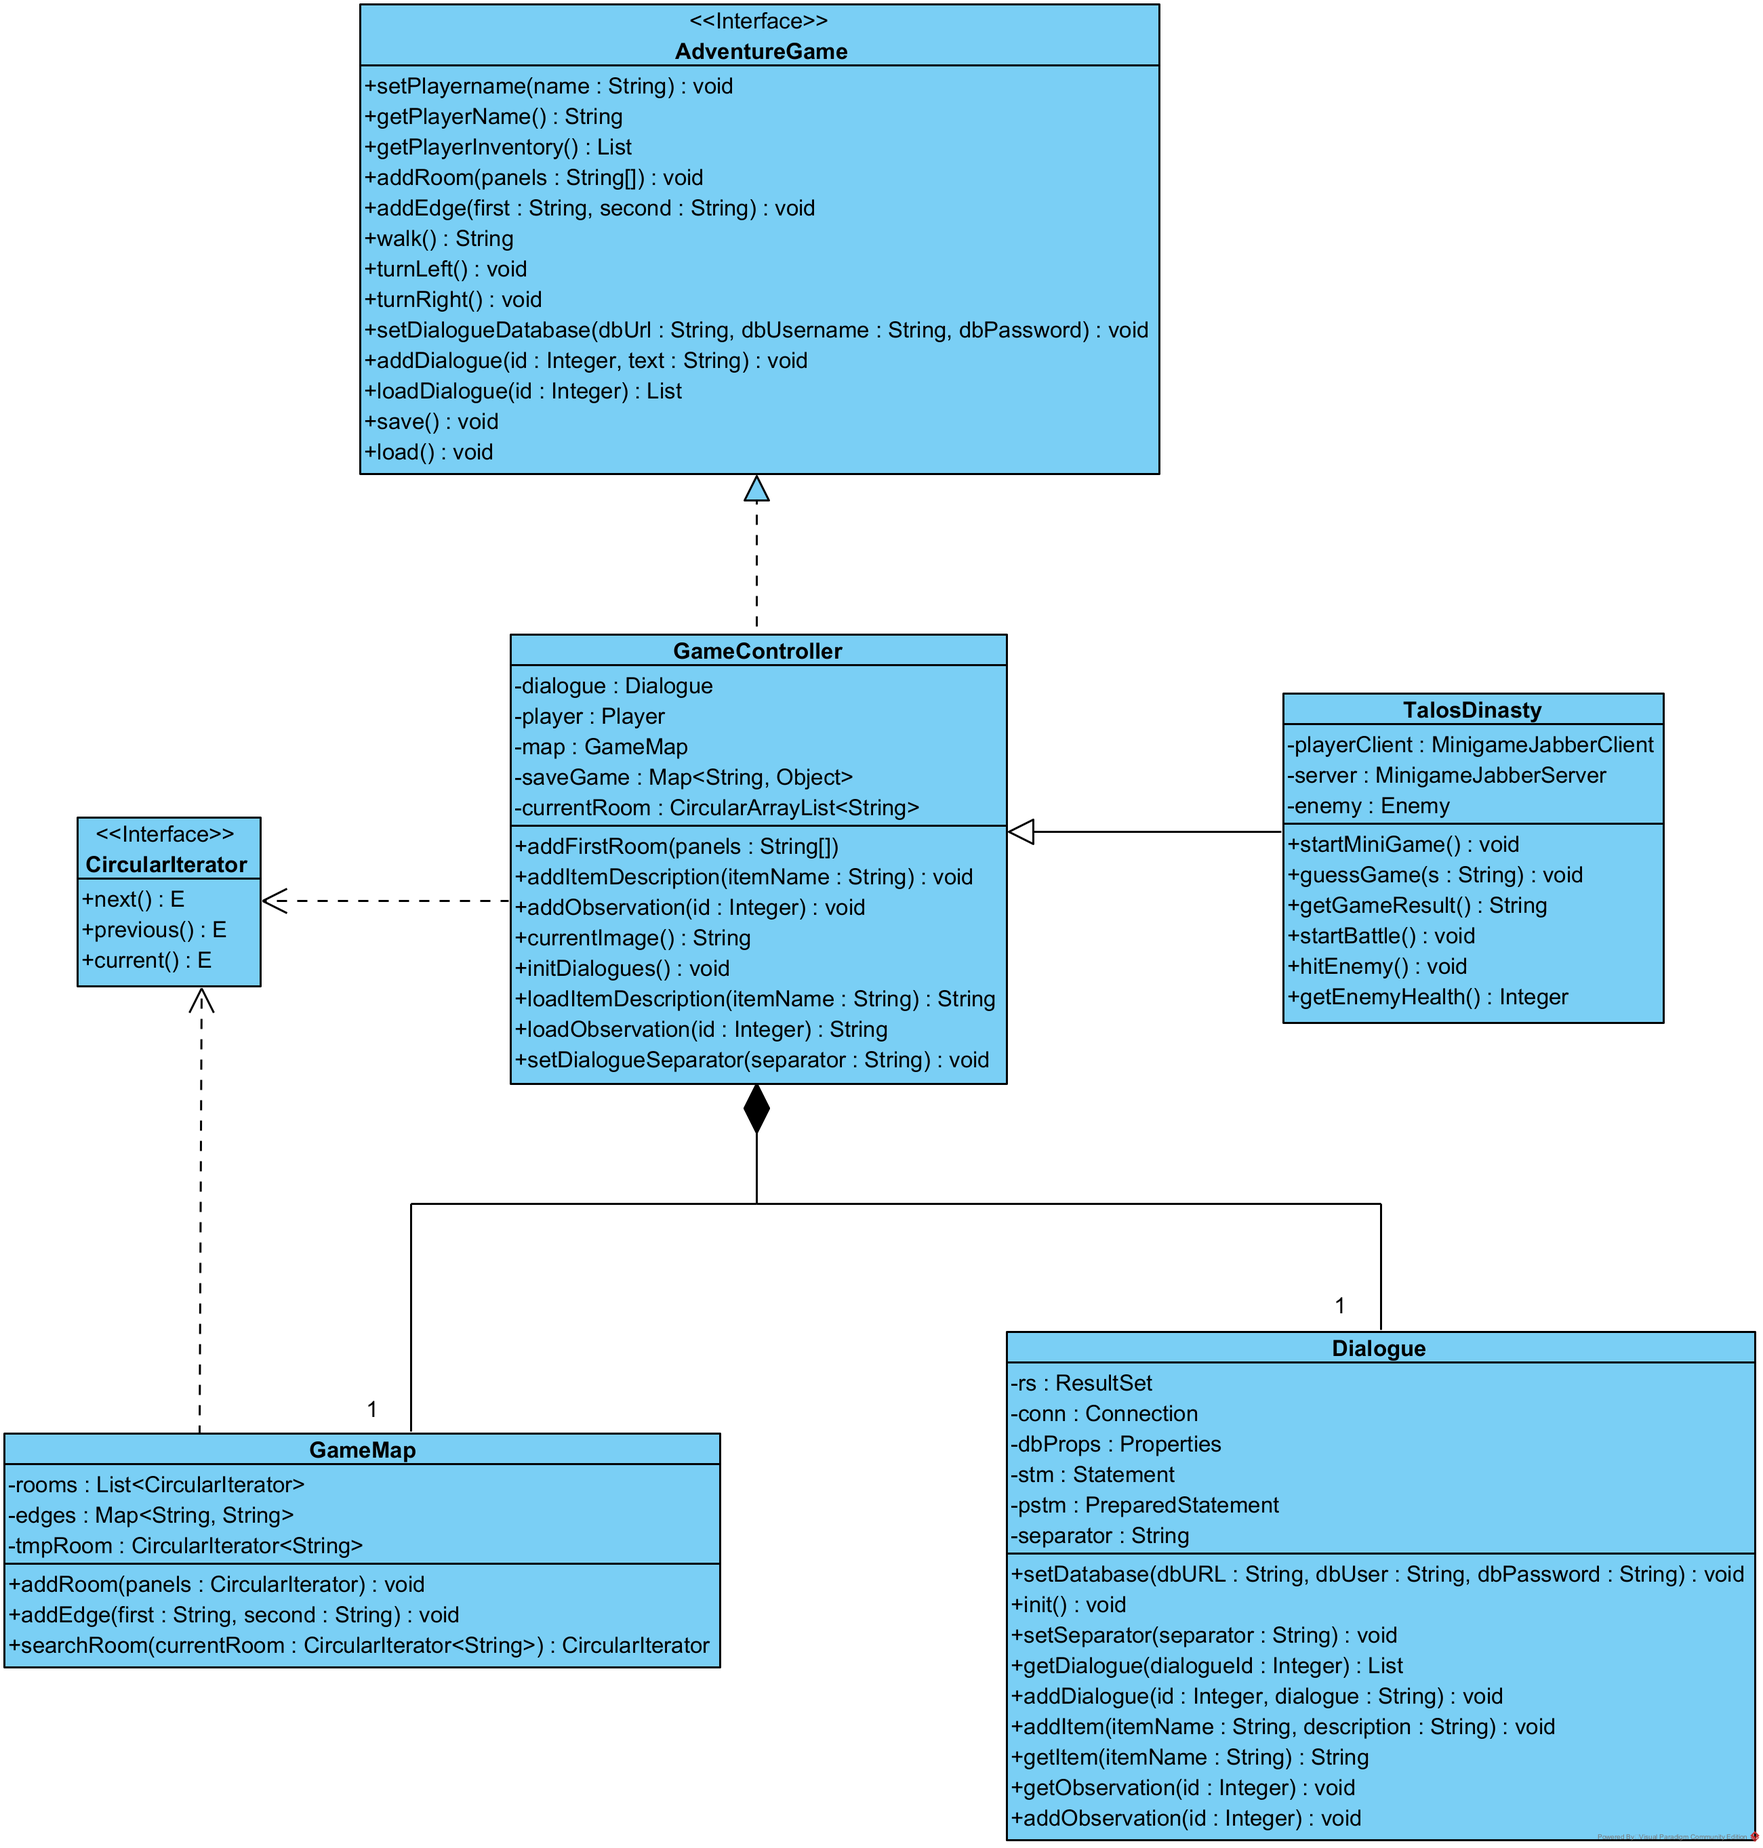
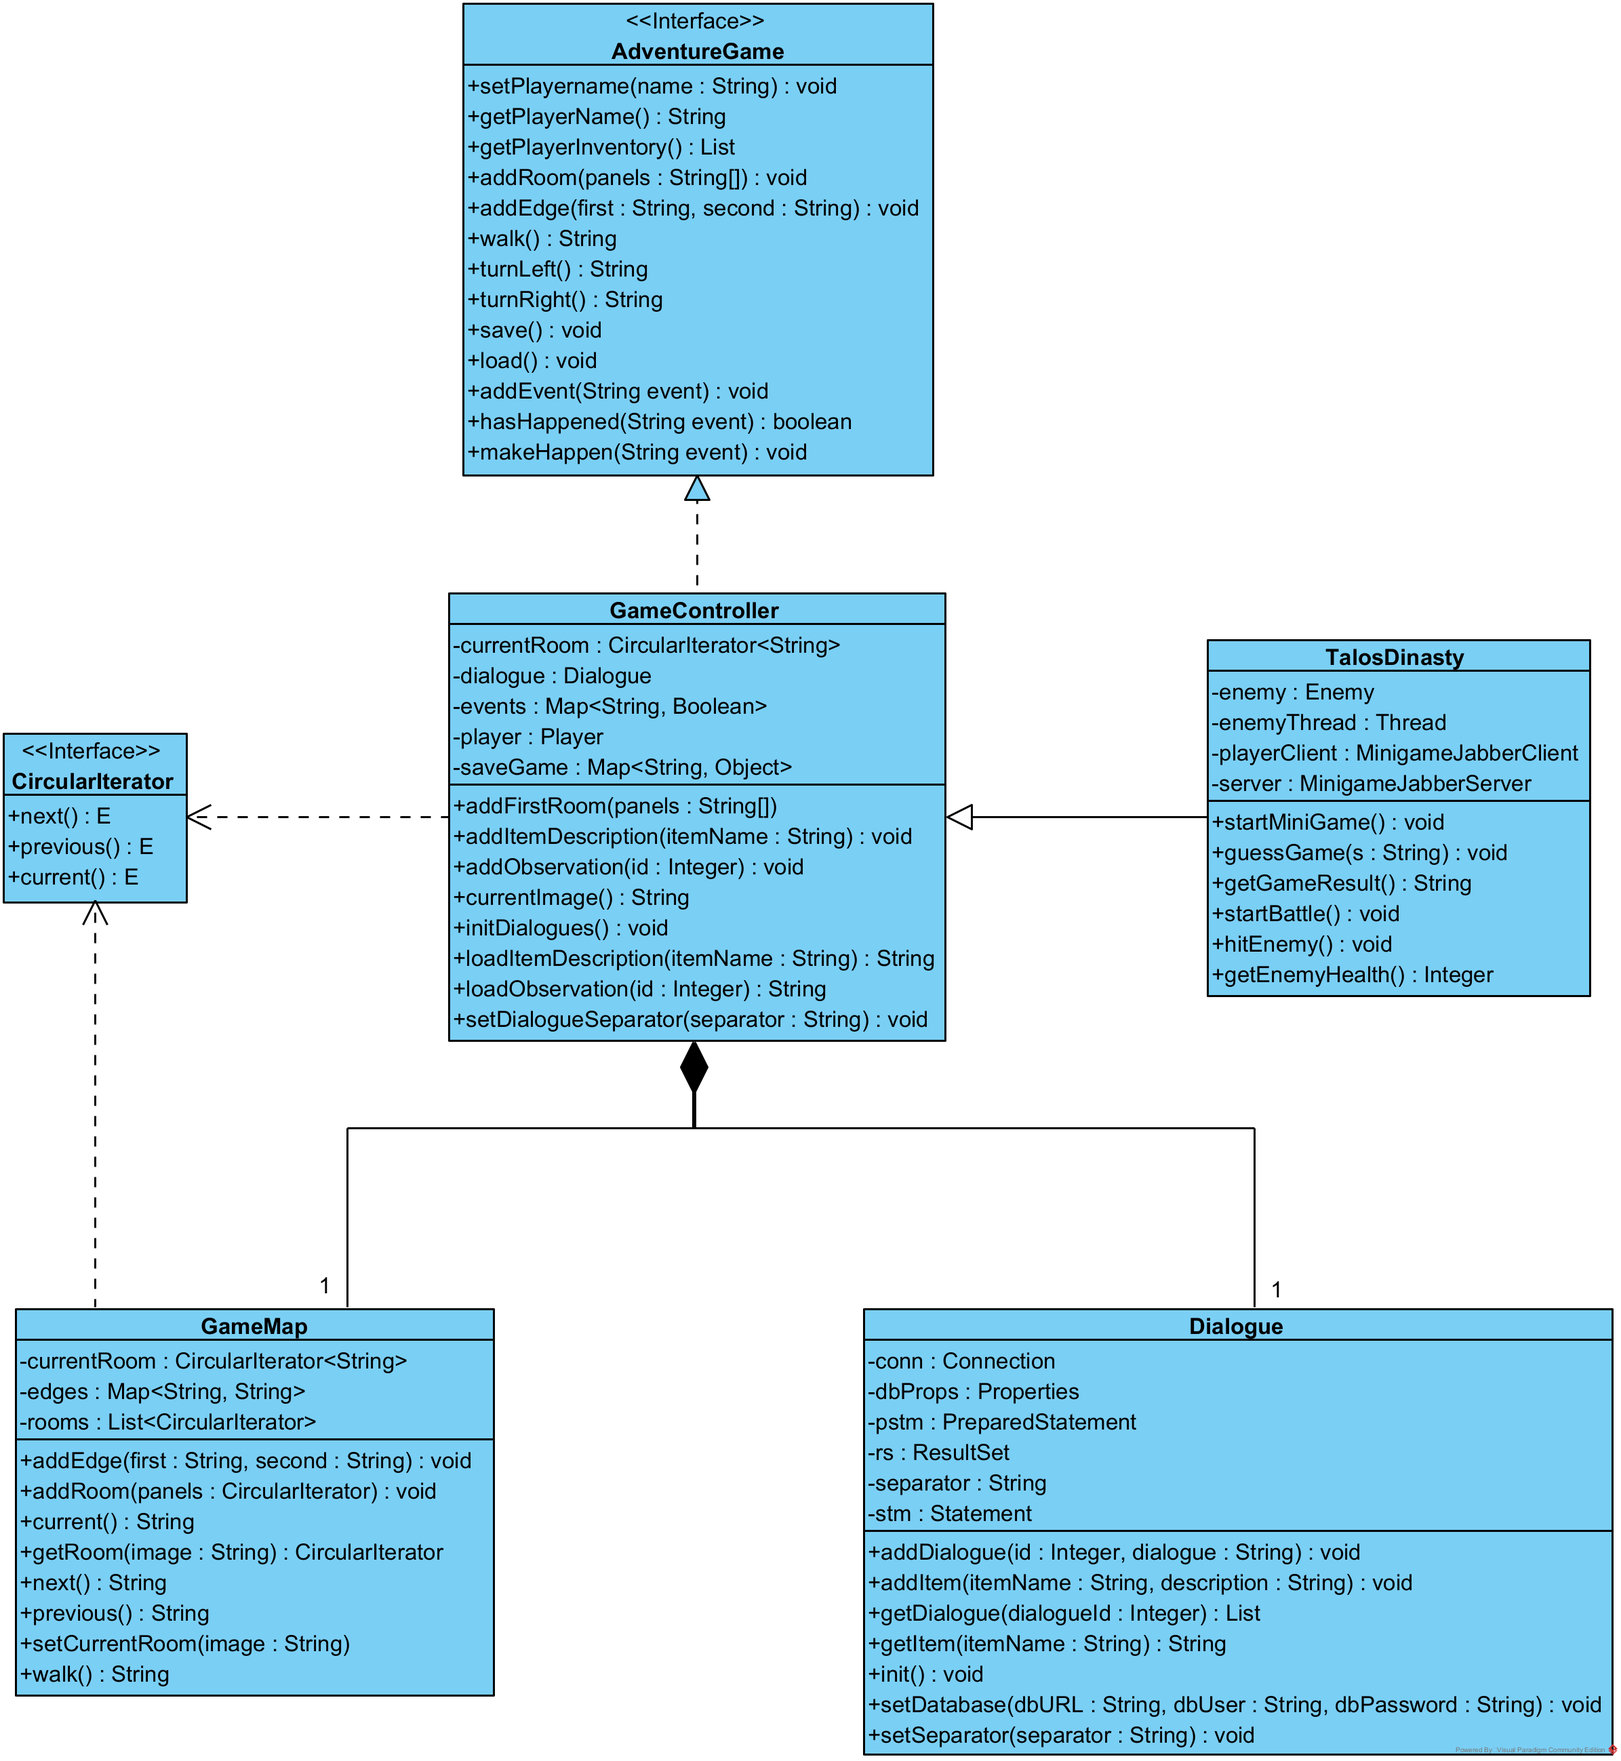
Varie cose

diff --git a/src/main/java/view/GameGUI.java b/src/main/java/view/GameGUI.java
@@ -6,7 +6,7 @@ import javax.swing.ImageIcon;
 import javax.swing.JOptionPane;
 import javax.swing.UIManager;
 import javax.swing.UnsupportedLookAndFeelException;
-import game.TalosDynasty;
+import game.Game;
 import java.util.Iterator;
 import java.util.List;
 
@@ -18,7 +18,7 @@ public class GameGUI extends javax.swing.JFrame {
 
     private boolean win;
     private boolean battleEnd;
-    private TalosDynasty core;
+    private Game core;
     private CardLayout cl;
     private Iterator<String> dialogue;
     private Thread healthBarUpdate;
@@ -98,8 +98,8 @@ public class GameGUI extends javax.swing.JFrame {
         jPanelSmith = new javax.swing.JPanel();
         jButton18 = new javax.swing.JButton();
         jPanelEnemy = new javax.swing.JPanel();
-        jButton2 = new javax.swing.JButton();
         jButton19 = new javax.swing.JButton();
+        jButton2 = new javax.swing.JButton();
         jProgressBar1 = new javax.swing.JProgressBar();
         jLabel1 = new javax.swing.JLabel();
 
@@ -433,6 +433,17 @@ public class GameGUI extends javax.swing.JFrame {
         jPanelEnemy.setOpaque(false);
         jPanelEnemy.setLayout(null);
 
+        jButton19.setIcon(new javax.swing.ImageIcon(getClass().getResource("/pngegg.png"))); // NOI18N
+        jButton19.setDefaultCapable(false);
+        jButton19.setFocusPainted(false);
+        jButton19.addActionListener(new java.awt.event.ActionListener() {
+            public void actionPerformed(java.awt.event.ActionEvent evt) {
+                jButton19ActionPerformed(evt);
+            }
+        });
+        jPanelEnemy.add(jButton19);
+        jButton19.setBounds(630, 500, 50, 50);
+
         jButton2.setIcon(new javax.swing.ImageIcon(getClass().getResource("/nemico.png"))); // NOI18N
         jButton2.setBorderPainted(false);
         jButton2.setContentAreaFilled(false);
@@ -444,17 +455,6 @@ public class GameGUI extends javax.swing.JFrame {
         });
         jPanelEnemy.add(jButton2);
         jButton2.setBounds(520, 180, 280, 409);
-
-        jButton19.setIcon(new javax.swing.ImageIcon(getClass().getResource("/pngegg.png"))); // NOI18N
-        jButton19.setDefaultCapable(false);
-        jButton19.setFocusPainted(false);
-        jButton19.addActionListener(new java.awt.event.ActionListener() {
-            public void actionPerformed(java.awt.event.ActionEvent evt) {
-                jButton19ActionPerformed(evt);
-            }
-        });
-        jPanelEnemy.add(jButton19);
-        jButton19.setBounds(620, 600, 50, 50);
 
         jProgressBar1.setForeground(new java.awt.Color(255, 0, 51));
         jProgressBar1.setBorderPainted(false);
@@ -515,14 +515,17 @@ public class GameGUI extends javax.swing.JFrame {
     private void jLabel1PropertyChange(java.beans.PropertyChangeEvent evt) {//GEN-FIRST:event_jLabel1PropertyChange
         try {
             switch (core.currentImage()) {
-                case TalosDynasty.KID_EVENT:
-                    cl.show(jPanel1, "card6");
+                case Game.KID_PANEL:
+                    if(!core.hasHappened(Game.KID_EVENT)){
+                        cl.show(jPanel1, "card6");
+                    }
+                    
                     break;
 
-                case TalosDynasty.GUARD_EVENT:
+                case Game.GUARD_PANEL:
                     cl.show(jPanel1, "card3");
 
-                    if (core.getPlayerInventory().contains(TalosDynasty.TALOS_AMULET)) {
+                    if (core.getPlayerInventory().contains(Game.TALOS_AMULET)) {
                         jButton1.setVisible(true);
                         jButton12.setVisible(false);
                     } else {
@@ -531,40 +534,45 @@ public class GameGUI extends javax.swing.JFrame {
 
                     break;
 
-                case TalosDynasty.MERCHANT_EVENT:
+                case Game.MERCHANT_PANEL:
                     cl.show(jPanel1, "card2");
 
-                    if (core.getPlayerInventory().contains(TalosDynasty.TALOS_AMULET)) {
+                    if (core.getPlayerInventory().contains(Game.TALOS_AMULET)) {
                         jButton15.setVisible(false);
                     }
 
                     break;
 
-                case TalosDynasty.JARL_EVENT:
+                case Game.JARL_PANEL:
                     cl.show(jPanel1, "card9");
                     break;
 
-                case TalosDynasty.TEMPLE_EVENT:
+                case Game.TEMPLE_PANEL:
                     cl.show(jPanel1, "card7");
                     break;
 
-                case TalosDynasty.BLACKSMITH_EVENT:
+                case Game.BLACKSMITH_PANEL:
                     cl.show(jPanel1, "card10");
                     break;
 
-                case TalosDynasty.RELIC_EVENT:
-                    cl.show(jPanel1, "card8");
+                case Game.RELIC_PANEL:
+                    if(!core.getPlayerInventory().contains(Game.TALOS_RELIC)){
+                        cl.show(jPanel1, "card8");
+                    }
+                    
                     break;
 
-                case TalosDynasty.ENEMY_EVENT:
-                    cl.show(jPanel1, "card11");
-
-                    if (jButton2.isVisible()) {
-                        jButton3.setVisible(false);
-                        jButton4.setVisible(false);
-                        jButton19.setVisible(false);
-                        jButton1.setVisible(false);
-                        jProgressBar1.setVisible(false);
+                case Game.ENEMY_PANEL:
+                    if (!core.hasHappened(Game.ENEMY_EVENT)) {
+                        cl.show(jPanel1, "card11");
+                        
+                        if (jButton2.isVisible()) {
+                            jButton3.setVisible(false);
+                            jButton4.setVisible(false);
+                            jButton19.setVisible(false);
+                            jButton1.setVisible(false);
+                            jProgressBar1.setVisible(false);
+                        }
                     }
 
                     break;
@@ -608,24 +616,24 @@ public class GameGUI extends javax.swing.JFrame {
 
     //Mercante
     private void jButton10ActionPerformed(java.awt.event.ActionEvent evt) {//GEN-FIRST:event_jButton10ActionPerformed
-        displayDialogue(core.loadDialogue(TalosDynasty.MERCHANT_FIRST));
+        displayDialogue(core.loadDialogue(Game.MERCHANT_FIRST));
     }//GEN-LAST:event_jButton10ActionPerformed
 
     //Guardia
     private void jButton12ActionPerformed(java.awt.event.ActionEvent evt) {//GEN-FIRST:event_jButton12ActionPerformed
-        displayDialogue(core.loadDialogue(TalosDynasty.GUARD));
+        displayDialogue(core.loadDialogue(Game.GUARD));
     }//GEN-LAST:event_jButton12ActionPerformed
 
     //Spada
     private void jButton6ActionPerformed(java.awt.event.ActionEvent evt) {//GEN-FIRST:event_jButton6ActionPerformed
-        displayDialogue(core.loadDialogue(TalosDynasty.BOOK));
+        displayDialogue(core.loadDialogue(Game.BOOK));
     }//GEN-LAST:event_jButton6ActionPerformed
 
     //Nuova partita
     private void jButton8ActionPerformed(java.awt.event.ActionEvent evt) {//GEN-FIRST:event_jButton8ActionPerformed
 
         if (!jTextField1.getText().isEmpty()) {
-            core = new TalosDynasty(jTextField1.getText());
+            core = new Game(jTextField1.getText());
             if (new File("saveGame.json").isFile()) {
                 if (JOptionPane.showConfirmDialog(GameGUI.this, "Esiste già un altro salvataggio. Vuoi sovrascriverlo?", "Attenzione!", JOptionPane.YES_NO_OPTION) == JOptionPane.YES_OPTION) {
                     core.save();
@@ -642,7 +650,7 @@ public class GameGUI extends javax.swing.JFrame {
     //Carica partita
     private void jButton11ActionPerformed(java.awt.event.ActionEvent evt) {//GEN-FIRST:event_jButton11ActionPerformed
         if (new File("saveGame.json").isFile()) {
-            core = new TalosDynasty();
+            core = new Game();
             core.load();
 
             core.getPlayerInventory().forEach(item -> {
@@ -655,11 +663,11 @@ public class GameGUI extends javax.swing.JFrame {
         }
     }//GEN-LAST:event_jButton11ActionPerformed
 
-    //Bimbo
+    //Bimba
     private void jButton13ActionPerformed(java.awt.event.ActionEvent evt) {//GEN-FIRST:event_jButton13ActionPerformed
-        if (!core.getPlayerInventory().contains(TalosDynasty.GOLDEN_RING)) {
-            displayDialogue(core.loadDialogue(TalosDynasty.KID_FIRST));
-            addItem(TalosDynasty.GOLDEN_RING); //Rimuovere il commento per vincere senza giocare
+        if (!core.hasHappened(Game.KID_EVENT)) {
+            displayDialogue(core.loadDialogue(Game.KID_FIRST));
+            addItem(Game.GOLDEN_RING); //Rimuovere il commento per vincere senza giocare
             jTextField2.setVisible(true);
             jButton14.setVisible(true);
             jButton13.setVisible(false);
@@ -686,16 +694,17 @@ public class GameGUI extends javax.swing.JFrame {
             String result = core.getGameResult();
             jLabel4.setText("<html>" + result.replace(". ", ".<br>") + "</html>");
 
-            if (result.equals(TalosDynasty.WIN) || result.equals(TalosDynasty.LOSE)) {
+            if (result.equals(Game.WIN) || result.equals(Game.LOSE)) {
                 jTextField2.setText("");
 
-                if (result.equals(TalosDynasty.WIN)) {
+                if (result.equals(Game.WIN)) {
                     jTextField2.setVisible(false);
                     jButton14.setVisible(false);
-                    displayDialogue(core.loadDialogue(TalosDynasty.KID_WIN));
-                    addItem(TalosDynasty.GOLDEN_RING); //Farlo fare a GameController (o forse no)
-                } else if (result.equals(TalosDynasty.LOSE)) {
-                    displayDialogue(core.loadDialogue(TalosDynasty.KID_LOSE));
+                    displayDialogue(core.loadDialogue(Game.KID_WIN));
+                    addItem(Game.GOLDEN_RING);
+                    core.makeHappen(Game.KID_EVENT);
+                } else if (result.equals(Game.LOSE)) {
+                    displayDialogue(core.loadDialogue(Game.KID_LOSE));
                 }
 
             }
@@ -706,45 +715,45 @@ public class GameGUI extends javax.swing.JFrame {
 
     //Mercante
     private void jButton15ActionPerformed(java.awt.event.ActionEvent evt) {//GEN-FIRST:event_jButton15ActionPerformed
-        if (core.getPlayerInventory().contains(TalosDynasty.GOLDEN_COIN)) {
+        if (core.getPlayerInventory().contains(Game.GOLDEN_COIN)) {
             jButton15.setVisible(false);
-            addItem(TalosDynasty.TALOS_AMULET);
-            removeItem(TalosDynasty.GOLDEN_COIN);
+            addItem(Game.TALOS_AMULET);
+            removeItem(Game.GOLDEN_COIN);
             jButton10.setVisible(false);
-            displayDialogue(core.loadDialogue(TalosDynasty.PURCHASE));
+            displayDialogue(core.loadDialogue(Game.PURCHASE));
         }
     }//GEN-LAST:event_jButton15ActionPerformed
 
     //Jarl
     private void jButton5ActionPerformed(java.awt.event.ActionEvent evt) {//GEN-FIRST:event_jButton5ActionPerformed
-        if (core.getPlayerInventory().contains(TalosDynasty.TALOS_RELIC)) {
-            displayDialogue(core.loadDialogue(TalosDynasty.JARL_END));
+        if (core.getPlayerInventory().contains(Game.TALOS_RELIC)) {
+            displayDialogue(core.loadDialogue(Game.JARL_END));
             win = true;
         } else {
-            displayDialogue(core.loadDialogue(TalosDynasty.JARL_START));
+            displayDialogue(core.loadDialogue(Game.JARL_START));
         }
     }//GEN-LAST:event_jButton5ActionPerformed
 
     //Pergamena
     private void jButton16ActionPerformed(java.awt.event.ActionEvent evt) {//GEN-FIRST:event_jButton16ActionPerformed
-        displayDialogue(core.loadDialogue(TalosDynasty.SCROLL));
+        displayDialogue(core.loadDialogue(Game.SCROLL));
     }//GEN-LAST:event_jButton16ActionPerformed
 
     //Fabbro
     private void jButton18ActionPerformed(java.awt.event.ActionEvent evt) {//GEN-FIRST:event_jButton18ActionPerformed
-        if (core.getPlayerInventory().contains(TalosDynasty.GOLDEN_RING)) {
-            removeItem(TalosDynasty.GOLDEN_RING);
-            addItem(TalosDynasty.GOLDEN_COIN);
-            displayDialogue(core.loadDialogue(TalosDynasty.SMITH_OBJECT));
+        if (core.getPlayerInventory().contains(Game.GOLDEN_RING)) {
+            removeItem(Game.GOLDEN_RING);
+            addItem(Game.GOLDEN_COIN);
+            displayDialogue(core.loadDialogue(Game.SMITH_OBJECT));
         } else {
-            displayDialogue(core.loadDialogue(TalosDynasty.SMITH_NO_OBJECT));
+            displayDialogue(core.loadDialogue(Game.SMITH_NO_OBJECT));
         }
     }//GEN-LAST:event_jButton18ActionPerformed
 
     //Reliquia
     private void jButton17ActionPerformed(java.awt.event.ActionEvent evt) {//GEN-FIRST:event_jButton17ActionPerformed
-        addItem(TalosDynasty.TALOS_RELIC);
-        jComboBox1.setSelectedItem(TalosDynasty.TALOS_RELIC);
+        addItem(Game.TALOS_RELIC);
+        jComboBox1.setSelectedItem(Game.TALOS_RELIC);
         jButton17.setVisible(false);
     }//GEN-LAST:event_jButton17ActionPerformed
 
@@ -754,18 +763,20 @@ public class GameGUI extends javax.swing.JFrame {
 
         if (core.getEnemyHealth() == 0) {
             battleEnd = true;
+            displayDialogue(core.loadDialogue(Game.ENEMY_DEATH));
             jButton19.setVisible(false);
             jButton2.setVisible(false);
             jProgressBar1.setVisible(false);
 
             jButton3.setVisible(true);
             jButton4.setVisible(true);
+            core.makeHappen(Game.ENEMY_EVENT);
         }
     }//GEN-LAST:event_jButton19ActionPerformed
 
     //Nemico
     private void jButton2ActionPerformed(java.awt.event.ActionEvent evt) {//GEN-FIRST:event_jButton2ActionPerformed
-        displayDialogue(core.loadDialogue(TalosDynasty.TALOS));
+        displayDialogue(core.loadDialogue(Game.TALOS));
         if (battleEnd) {
             jProgressBar1.setVisible(true);
             jButton19.setVisible(true);

diff --git a/src/main/java/model/GameController.java b/src/main/java/model/GameController.java
@@ -20,11 +20,13 @@ public class GameController implements AdventureGame {
     private Player player;
     private GameMap map;
     private Map<String, Object> saveGame;
+    private Map<String, Boolean> events;
 
     public GameController() {
         dialogue = new Dialogue();
         player = new Player();
         map = new GameMap();
+        events = new HashMap();
     }
 
     @Override
@@ -69,6 +71,21 @@ public class GameController implements AdventureGame {
         return map.previous();
     }
     
+    @Override
+    public void addEvent(String event){
+        events.put(event, false);
+    }
+    
+    @Override
+    public boolean hasHappened(String event){
+        return events.get(event);
+    }
+    
+    @Override
+    public void makeHappen(String event){
+        events.put(event, true);
+    }
+    
     public void initDialogues() {
         dialogue.init();
     }
@@ -107,6 +124,7 @@ public class GameController implements AdventureGame {
         saveGame.put("name", player.getName());
         saveGame.put("currentImage", map.current());
         saveGame.put("inventory", player.getInventory());
+        saveGame.put("events", events);
 
         try {
             BufferedWriter outputStream = new BufferedWriter(new FileWriter("saveGame.json"));
@@ -134,5 +152,6 @@ public class GameController implements AdventureGame {
         player.setName(saveGame.get("name").toString());
         map.setCurrentRoom((String) saveGame.get("currentImage"));
         player.setInventory((List) saveGame.get("inventory"));
+        events = (Map) saveGame.get("events");
     }
 }

diff --git a/src/main/java/model/AdventureGame.java b/src/main/java/model/AdventureGame.java
@@ -16,6 +16,9 @@ public interface AdventureGame {
     public String walk();
     public String turnLeft();
     public String turnRight();
+    public void addEvent(String event);
+    public boolean hasHappened(String event);
+    public void makeHappen(String event);
     public void save();
     public void load();
     
